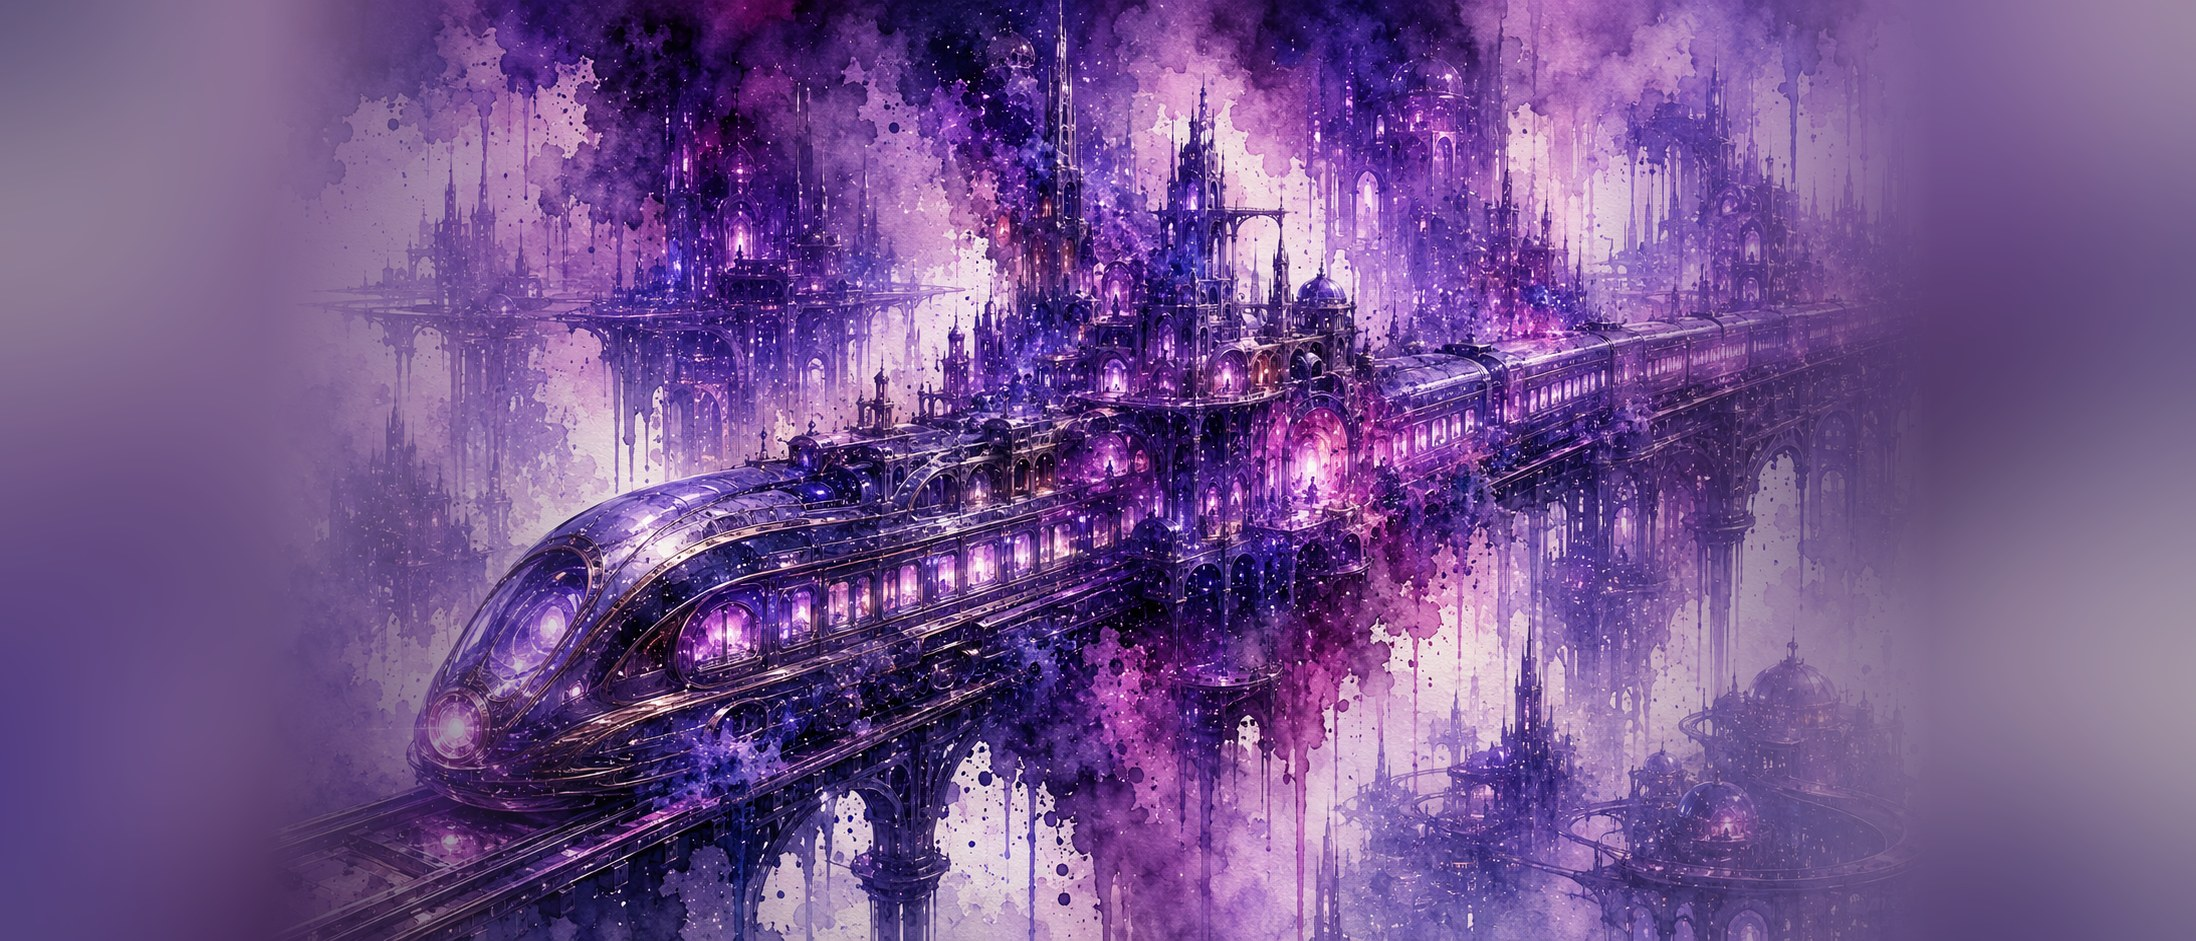
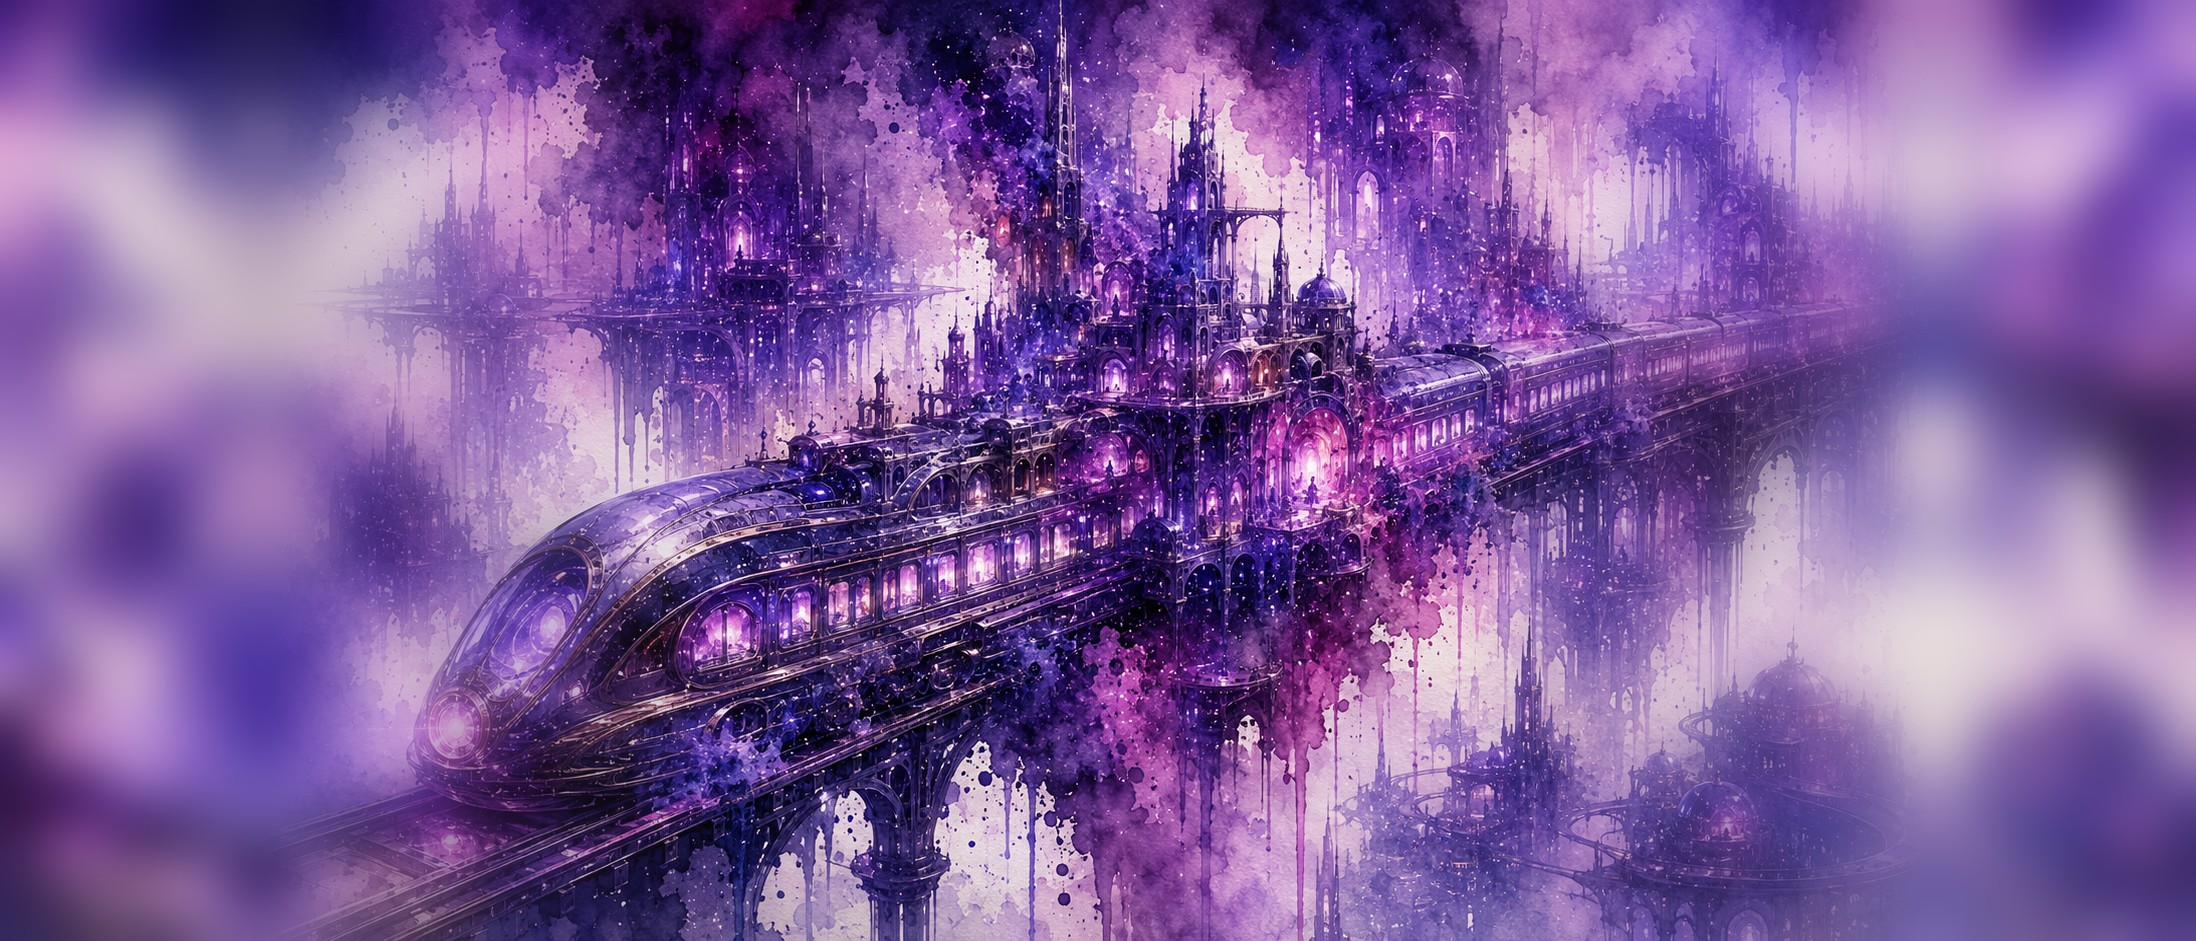
Fix missing CTA buttons, hero chip overlap, and image edge blending
- Restore the primary CTA button that got dropped when restructuring
  AI Phone Agents, Paid Advertising, and Social Media Management, and
  add one to the new AI Chat & Messaging page (never had one)
- Fix hero-hud-chip ("Growth system: active") overlapping the hero
  button row: it was position:absolute measured from the bottom of a
  box sized only to its in-flow content, so short content pushed it
  on top of the buttons. Always flow it in document order now instead.
- Regenerate all 11 site images with mirror-reflection edge extension
  instead of a blurred/darkened backdrop — the previous technique still
  read as an obviously separate pasted-on background; mirroring the
  actual edge pixels keeps color and texture continuous with zero seam

diff --git a/css/site.css b/css/site.css
@@ -308,14 +308,13 @@ body{
 .hud-chip .dot{width:6px;height:6px;border-radius:50%;background:#7CF29C;box-shadow:0 0 8px #7CF29C;animation:pulseDot 2s ease-in-out infinite;}
 @keyframes pulseDot{0%,100%{opacity:1;}50%{opacity:.35;}}
 @media (prefers-reduced-motion: reduce){.hud-chip .dot{animation:none;}}
-/* Homepage-hero-only badge: floats bottom-left over the video on desktop, same as before. */
-.hero-hud-chip{position:absolute;bottom:56px;left:0;}
-/* On mobile the hero's flowed content (headline + long copy + wrapped buttons) can run
-   taller than the section, so a bottom-anchored absolute chip collides with the button
-   row underneath it. Drop it back into normal flow instead of fighting for the same spot. */
-@media (max-width:640px){
-  .hero-hud-chip{position:static;display:inline-flex;margin-top:24px;}
-}
+/* Homepage-hero-only badge. Used to float bottom-left via position:absolute, but that
+   measures from hero-content's own box — which is sized to its in-flow content only
+   (the chip is out of flow), so "bottom:56px" could land the chip on top of the button
+   row whenever the flowed content was short enough. Flowing it in normal document order,
+   right after the buttons, is simple and never collides regardless of content length
+   or viewport width. */
+.hero-hud-chip{position:static;display:inline-flex;margin-top:24px;}
 
 .scanline{position:absolute;inset:0;overflow:hidden;pointer-events:none;z-index:1;}
 .scanline::before{

diff --git a/service-ai-phone-agents.html b/service-ai-phone-agents.html
@@ -142,6 +142,9 @@
       <span class="tag-label">How AI supports this</span>
       <p>Every agent is scripted and refined by our strategists using real call data, never a generic voice bot template. What your customers hear was written by someone who understands your industry.</p>
     </div>
+    <div style="margin-top:22px;">
+      <a class="btn" href="contact.html">Hear What Your Customers Will Hear</a>
+    </div>
   </div>
 </section>
 

diff --git a/service-ai-chat-messaging-agents.html b/service-ai-chat-messaging-agents.html
@@ -211,6 +211,9 @@
       <span class="tag-label">How AI supports this</span>
       <p>Every agent is built around your actual knowledge base and escalation rules, not a generic chatbot script. What a customer reads was shaped by someone who understands your business.</p>
     </div>
+    <div style="margin-top:22px;">
+      <a class="btn" href="contact.html">See What AI Can Do for Your Conversations</a>
+    </div>
   </div>
 </section>
 

diff --git a/service-social-media-management.html b/service-social-media-management.html
@@ -125,6 +125,9 @@
       <span class="tag-label">How AI supports this</span>
       <p>AI keeps the rhythm consistent, day after day, handling scheduling and first-pass comment responses. Your strategist keeps the voice authentic, so it never reads as automated.</p>
     </div>
+    <div style="margin-top:22px;">
+      <a class="btn" href="contact.html">See What AI Can Do for Your Social Presence</a>
+    </div>
   </div>
 </section>
 

diff --git a/service-paid-advertising.html b/service-paid-advertising.html
@@ -123,6 +123,9 @@
       <span class="tag-label">How AI supports this</span>
       <p>Automation handles the thousands of small bid and budget adjustments in real time; your strategist handles the direction, the creative, and the why behind it.</p>
     </div>
+    <div style="margin-top:22px;">
+      <a class="btn" href="contact.html">See What AI Can Do for Your Ad Spend</a>
+    </div>
   </div>
 </section>
 
